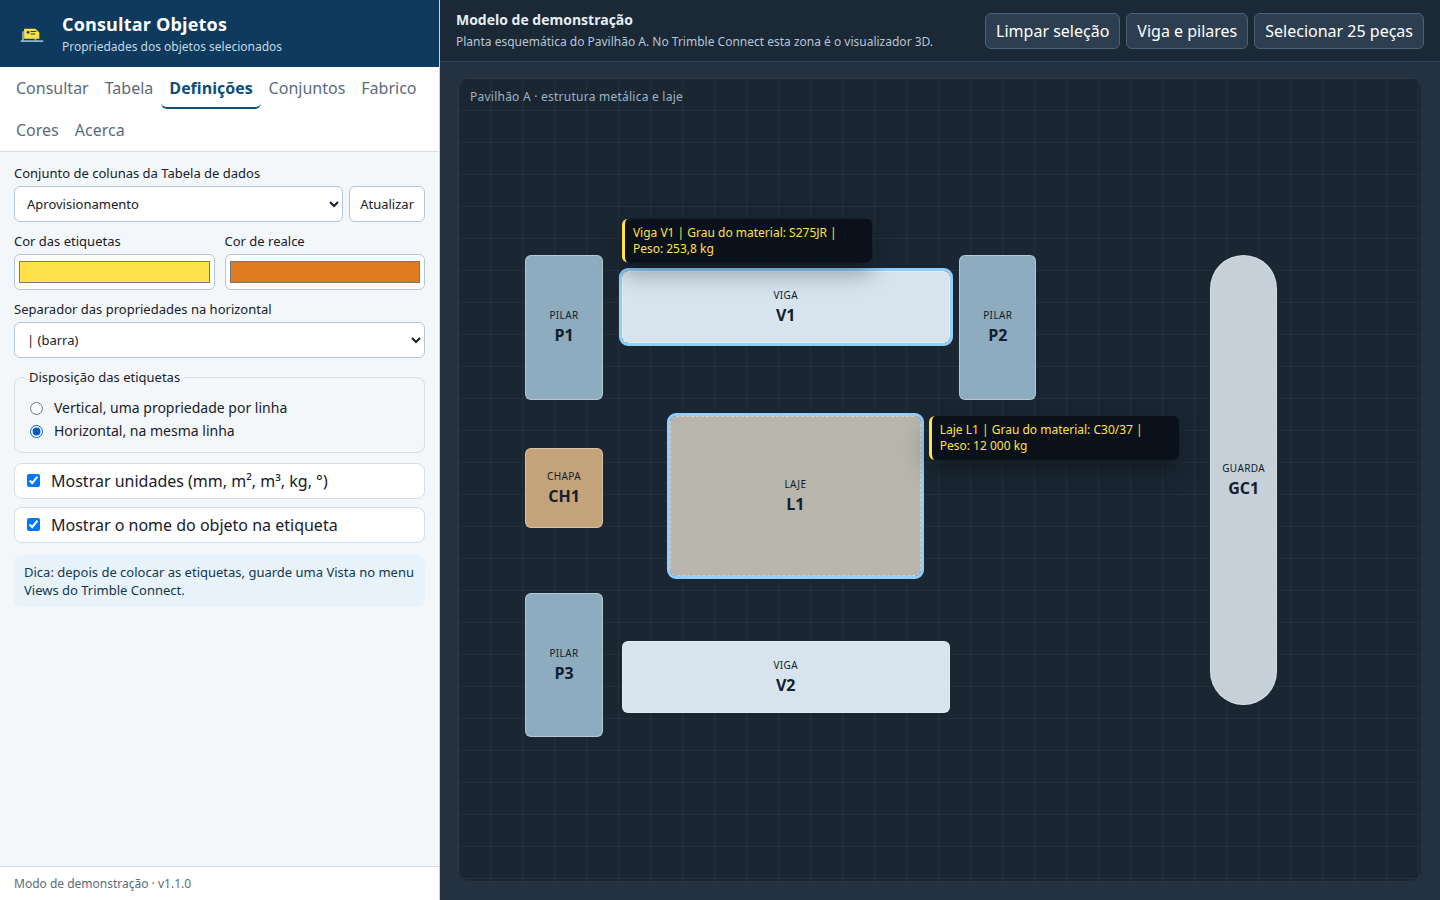
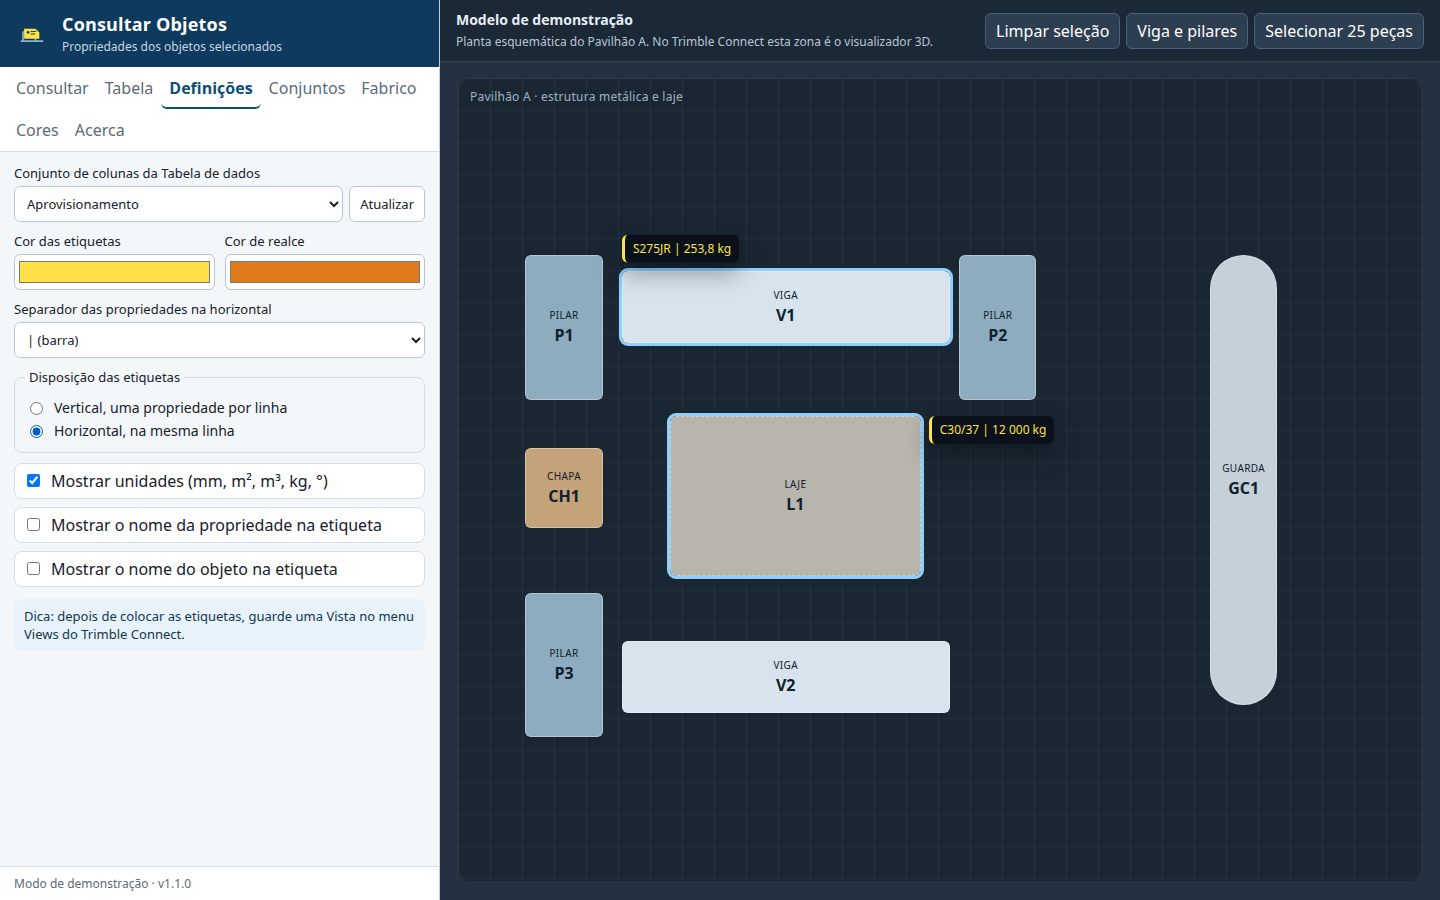
Show only the chosen property values on labels.
Names of the object and of the property stay off unless turned on in
Settings. Several values use the separator or one line each. Saved
settings from the previous build pick up the new default.

diff --git a/src/ui/app.ts b/src/ui/app.ts
@@ -344,11 +344,12 @@ export async function startApp(root: HTMLElement, host: ViewerHost): Promise<voi
         if (state.labelsActive) void refreshLabels();
         return;
       }
-      if (target.id === "show-units" || target.id === "show-name") {
+      if (target.id === "show-units" || target.id === "show-name" || target.id === "show-property") {
         state.settings = {
           ...state.settings,
           showUnits: (scope.querySelector<HTMLInputElement>("#show-units")?.checked ?? true),
-          showObjectName: (scope.querySelector<HTMLInputElement>("#show-name")?.checked ?? true),
+          showPropertyName: (scope.querySelector<HTMLInputElement>("#show-property")?.checked ?? false),
+          showObjectName: (scope.querySelector<HTMLInputElement>("#show-name")?.checked ?? false),
         };
         saveSettings(localStorage, state.settings);
         if (state.labelsActive) void refreshLabels();
@@ -802,6 +803,8 @@ function fillSettings(root: HTMLElement, state: UiState): void {
   if (highlight) highlight.value = state.settings.highlightColor;
   if (separator) separator.value = state.settings.separator;
   if (units) units.checked = state.settings.showUnits;
+  const propertyName = root.querySelector<HTMLInputElement>("#show-property");
+  if (propertyName) propertyName.checked = state.settings.showPropertyName;
   if (name) name.checked = state.settings.showObjectName;
   const layout = root.querySelector<HTMLInputElement>(`input[name="layout"][value="${state.settings.layout}"]`);
   if (layout) layout.checked = true;
@@ -910,7 +913,8 @@ function shell(host: ViewerHost): string {
           <label class="radio"><input type="radio" name="layout" value="horizontal" data-testid="disposicao-horizontal" /> Horizontal, na mesma linha</label>
         </fieldset>
         <label class="check standalone"><input id="show-units" data-testid="mostrar-unidades" type="checkbox" checked /> Mostrar unidades (mm, m², m³, kg, °)</label>
-        <label class="check standalone"><input id="show-name" data-testid="mostrar-nome" type="checkbox" checked /> Mostrar o nome do objeto na etiqueta</label>
+        <label class="check standalone"><input id="show-property" data-testid="mostrar-propriedade" type="checkbox" /> Mostrar o nome da propriedade na etiqueta</label>
+        <label class="check standalone"><input id="show-name" data-testid="mostrar-nome" type="checkbox" /> Mostrar o nome do objeto na etiqueta</label>
         <p class="tip">Dica: depois de colocar as etiquetas, guarde uma Vista no menu Views do Trimble Connect.</p>
       </div>
       <div id="panel-conjuntos" role="tabpanel" aria-labelledby="tab-conjuntos" hidden>

diff --git a/tests/unit/domain.test.ts b/tests/unit/domain.test.ts
@@ -60,7 +60,8 @@ const settings: LabelSettings = {
   separator: " | ",
   layout: "vertical",
   showUnits: true,
-  showObjectName: true,
+  showPropertyName: false,
+  showObjectName: false,
 };
 
 function inquired(raw: RawObject = beam): InquiredObject {
@@ -151,9 +152,11 @@ describe("etiquetas", () => {
       { field: "Perfil.Nome", label: "Perfil" },
       { field: "Quantidades.Peso", label: "Peso" },
     ]);
-    expect(buildLabelText(object, items, settings)).toBe("Viga V1\nPerfil: HEA200\nPeso: 253,8 kg");
-    expect(buildLabelText(object, items, { ...settings, layout: "horizontal", showUnits: false, showObjectName: false }))
-      .toBe("Perfil: HEA200 | Peso: 253,8");
+    expect(buildLabelText(object, items, settings)).toBe("HEA200\n253,8 kg");
+    expect(buildLabelText(object, items, { ...settings, layout: "horizontal", showUnits: false }))
+      .toBe("HEA200 | 253,8");
+    expect(buildLabelText(object, items, { ...settings, showPropertyName: true, showObjectName: true }))
+      .toBe("Viga V1\nPerfil: HEA200\nPeso: 253,8 kg");
   });
 
   it("converte a caixa delimitadora de metros para milímetros e posiciona a etiqueta ao lado", () => {
@@ -220,6 +223,13 @@ describe("conjuntos guardados", () => {
     const added = upsertSet(updated, "Betão: classe, volume", ["Material||Grau", "Quantidades||Volume"]);
     expect(added).toHaveLength(2);
     expect(loadSettings(store).showUnits).toBe(true);
+    expect(loadSettings(store).showObjectName).toBe(false);
+    expect(loadSettings(store).showPropertyName).toBe(false);
+    const legacy = loadSettings(memoryStore({
+      "tc-consultar-objetos:definicoes": JSON.stringify({ showObjectName: true, showUnits: true }),
+    }));
+    expect(legacy.showObjectName).toBe(false);
+    expect(legacy.showPropertyName).toBe(false);
     expect(loadSettings(memoryStore({ "tc-consultar-objetos:definicoes": "{" })).labelColor).toBe("#ffe14a");
   });
 });

diff --git a/tests/e2e/demo.spec.ts b/tests/e2e/demo.spec.ts
@@ -38,18 +38,20 @@ test("coloca etiquetas na vertical e na horizontal, com ou sem unidades", async 
   await page.getByTestId("mostrar-etiquetas").click();
   const label = page.getByTestId("etiqueta");
   await expect(label).toHaveCount(1);
-  await expect(label).toContainText("HEA200");
-  expect(await label.textContent()).toContain("\n");
-  expect(await label.textContent()).toContain("kg");
+  expect(await label.textContent()).toBe("HEA200\n253,8 kg");
 
   await page.getByRole("tab", { name: "Definições" }).click();
+  await expect(page.getByTestId("mostrar-propriedade")).not.toBeChecked();
+  await expect(page.getByTestId("mostrar-nome")).not.toBeChecked();
   await page.getByTestId("disposicao-horizontal").check();
-  await expect(label).toContainText("HEA200 | Peso:");
-  expect(await label.textContent()).not.toContain("\n");
+  await expect.poll(async () => label.textContent()).toBe("HEA200 | 253,8 kg");
+
+  await page.getByTestId("mostrar-propriedade").check();
+  await expect.poll(async () => label.textContent()).toBe("Perfil: HEA200 | Peso: 253,8 kg");
+  await page.getByTestId("mostrar-propriedade").uncheck();
 
   await page.getByTestId("mostrar-unidades").uncheck();
-  await expect(label).not.toContainText("kg");
-  await expect(label).toContainText("253,8");
+  await expect.poll(async () => label.textContent()).toBe("HEA200 | 253,8");
 
   await page.getByRole("tab", { name: "Consultar" }).click();
   await page.getByTestId("limpar-etiquetas").click();

diff --git a/src/domain/storage.ts b/src/domain/storage.ts
@@ -58,13 +58,19 @@ export function loadSettings(store: KeyValueStore): LabelSettings {
     if (!parsed || typeof parsed !== "object") return { ...DEFAULT_SETTINGS };
     const value = parsed as Partial<LabelSettings>;
     const layout = value.layout === "horizontal" || value.layout === "vertical" ? value.layout : DEFAULT_SETTINGS.layout;
+    // Older builds always stored the object name as on, before the property-name option existed.
+    const showPropertyName = typeof value.showPropertyName === "boolean" ? value.showPropertyName : false;
+    const showObjectName = typeof value.showPropertyName === "boolean" && typeof value.showObjectName === "boolean"
+      ? value.showObjectName
+      : false;
     return {
       labelColor: typeof value.labelColor === "string" ? value.labelColor : DEFAULT_SETTINGS.labelColor,
       highlightColor: typeof value.highlightColor === "string" ? value.highlightColor : DEFAULT_SETTINGS.highlightColor,
       separator: typeof value.separator === "string" ? value.separator : DEFAULT_SETTINGS.separator,
       layout,
       showUnits: typeof value.showUnits === "boolean" ? value.showUnits : DEFAULT_SETTINGS.showUnits,
-      showObjectName: typeof value.showObjectName === "boolean" ? value.showObjectName : DEFAULT_SETTINGS.showObjectName,
+      showPropertyName,
+      showObjectName,
     };
   } catch {
     return { ...DEFAULT_SETTINGS };

diff --git a/tests/e2e/screenshots.spec.ts b/tests/e2e/screenshots.spec.ts
@@ -44,7 +44,9 @@ test("04 etiquetas no modelo", async ({ page }) => {
   await expect(page.getByTestId("etiqueta")).toHaveCount(2);
   await page.getByRole("tab", { name: "Definições" }).click();
   await page.getByTestId("disposicao-horizontal").check();
-  await expect(page.getByTestId("etiqueta").first()).toContainText("|");
+  await expect(page.getByTestId("mostrar-propriedade")).not.toBeChecked();
+  await expect(page.getByTestId("mostrar-nome")).not.toBeChecked();
+  await expect(page.getByTestId("etiqueta").first()).toHaveText("S275JR | 253,8 kg");
   await shot(page, "04-etiquetas-no-modelo.png");
 });
 

diff --git a/src/domain/labels.ts b/src/domain/labels.ts
@@ -45,7 +45,7 @@ export function buildLabelText(object: InquiredObject, items: PropItem[], settin
   for (const item of items) {
     const property = findProperty(object.raw, item);
     const value = property ? formatValue(property, settings.showUnits) : "—";
-    parts.push(`${item.label}: ${value}`);
+    parts.push(settings.showPropertyName ? `${item.label}: ${value}` : value);
   }
   if (parts.length === 0) return "";
   return settings.layout === "horizontal" ? parts.join(settings.separator) : parts.join("\n");

diff --git a/src/domain/types.ts b/src/domain/types.ts
@@ -85,6 +85,7 @@ export interface LabelSettings {
   separator: string;
   layout: "horizontal" | "vertical";
   showUnits: boolean;
+  showPropertyName: boolean;
   showObjectName: boolean;
 }
 
@@ -134,7 +135,8 @@ export const DEFAULT_SETTINGS: LabelSettings = {
   separator: " | ",
   layout: "vertical",
   showUnits: true,
-  showObjectName: true,
+  showPropertyName: false,
+  showObjectName: false,
 };
 
 export const EXAMPLE_SET: NamedPropertySet = {

diff --git a/README.md b/README.md
@@ -34,7 +34,7 @@ A lista vem do conjunto de colunas da Tabela de dados (`dataTable.getColumnSets`
 
 ### 4. Etiquetas no modelo
 
-**Mostrar etiquetas** coloca um texto junto de cada objeto. A posição usa a caixa delimitadora do objeto. Pode escolher a cor, a disposição vertical ou horizontal, o separador, se as unidades aparecem (mm, m², m³, kg, °) e se o nome do objeto entra na etiqueta.
+**Mostrar etiquetas** coloca, junto de cada objeto, só os valores das propriedades marcadas. Vários valores ficam na mesma linha, com o separador escolhido, ou um por linha. Em **Definições** pode incluir o nome da propriedade e o nome do objeto; as duas opções começam desligadas. A cor, as unidades (mm, m², m³, kg, °) e a posição da etiqueta também se ajustam aí.
 
 ![Definições das etiquetas e textos horizontais junto da viga e da laje](docs/imagens/04-etiquetas-no-modelo.png)
 
